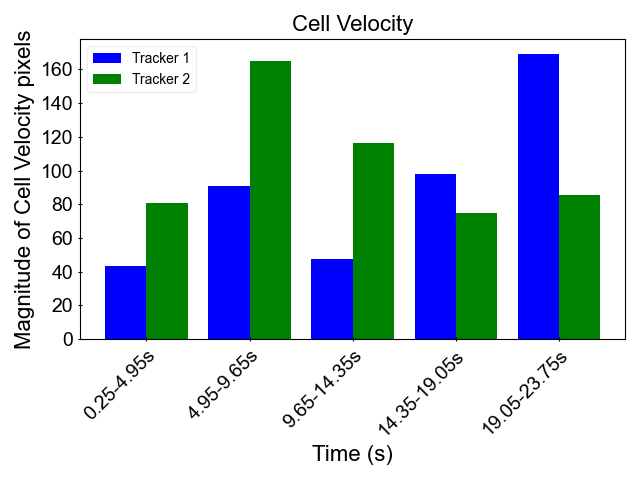
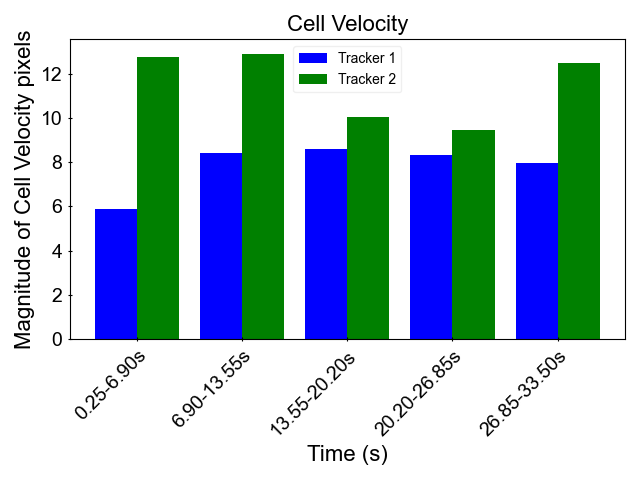
marker displacement now handle multiple trackers

diff --git a/analysis.py b/analysis.py
@@ -350,7 +350,7 @@ def marker_velocity(user_unit_conversion, df=None, will_save_figures=True):
         'x_label': 'Time (s)',
         'y_label': f'Magnitude of Cell Velocity {conversion_units}',
         'data_label': [f"Tracker {i+1}" for i in range(n_trackers)],
-        'has_legend': False,
+        'has_legend': True,
     }
 
     if will_save_figures:
@@ -384,23 +384,24 @@ def marker_distance(user_unit_conversion):
     print(df.head())
     
     n_trackers = df['Tracker'].unique().shape[0] # get number of trackers
+    rms_disps = []
+    time = df['Time(s)'].unique()
+    for tracker in range(n_trackers):
+        cur_df = df[df['Tracker'] == tracker+1]
+        x = cur_df['x (px)'].values * conversion_factor
+        y = cur_df['y (px)'].values * conversion_factor
 
-    time = df['Time(s)'].values
-    x = df['x (px)'].values * conversion_factor
-    y = df['y (px)'].values * conversion_factor
+        rms_disps.append(rms_displacement(np.diff(x), np.diff(y)))
 
-    rms_disps = rms_displacement(np.diff(x), np.diff(y))
-
-    # plot
     plot_args = {
         'title': 'Cell RMS Displacement',
         'x_label': 'Time (s)',
         'y_label': f'RMS {conversion_units}',
-        'data_label': None,
-        'has_legend': False
+        'data_label': [f"Tracker {i+1}" for i in range(n_trackers)],
+        'has_legend': True
     }
     # plot marker velocity
-    disp_fig, disp_ax = plot_scatter_data(time[:-1], rms_disps, plot_args)
+    disp_fig, disp_ax = plot_scatter_data(time[:-1], rms_disps, plot_args, n_trackers)
     disp_fig.savefig("figures/marker_RMS_displacement.png")
 
 def single_marker_spread(user_unit_conversion):
